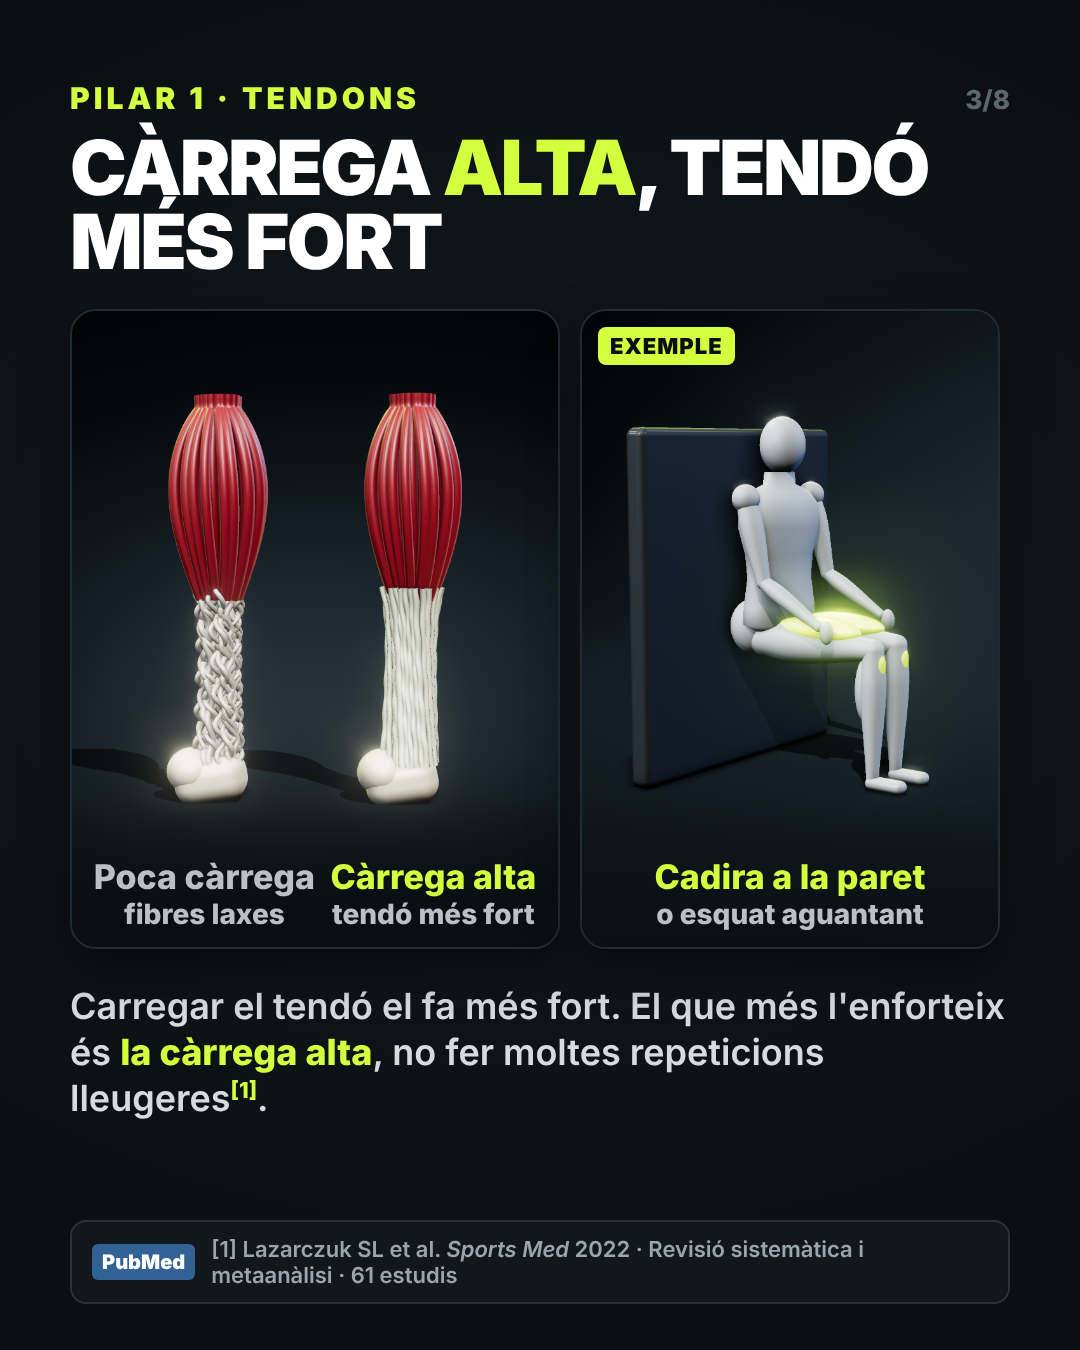
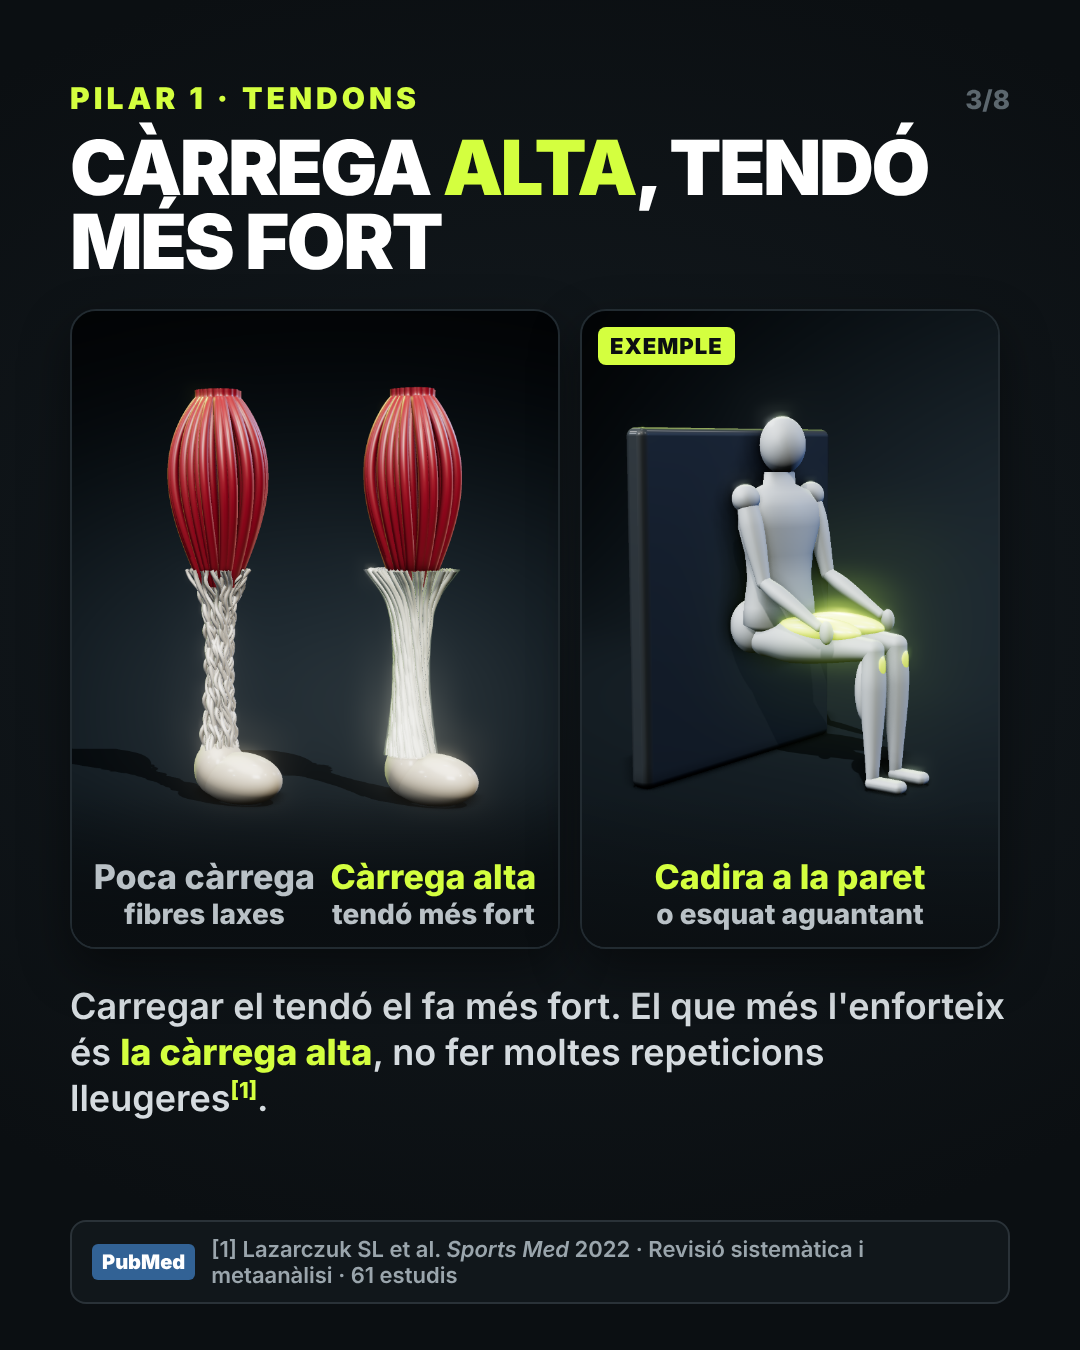
Força: portada White Dragon, CTA corrent, títols sense tapar, tendó nou
Claude-Session: https://claude.ai/code/session_0129rqGdsRmN9Z9aLzGCda8A

Changed region(s): [[0.3056, 0.28, 0.4583, 0.5911], [0.1222, 0.28, 0.275, 0.5911]]

diff --git a/media/publicacions/forca_corredors/3d/scene2.html b/media/publicacions/forca_corredors/3d/scene2.html
@@ -62,7 +62,7 @@ let seed = 7; const rnd = () => (seed = (seed * 16807) % 2147483647) / 214748364
 const MAT = {
   skin: () => new THREE.MeshPhysicalMaterial({ color: 0x9AA3A9, roughness: .55, clearcoat: .15, clearcoatRoughness: .5, sheen: .5, sheenColor: new THREE.Color(0xffffff) }),
   hot: () => new THREE.MeshPhysicalMaterial({ color: LIME, roughness: .35, clearcoat: .9, clearcoatRoughness: .2, emissive: LIME, emissiveIntensity: .38 }),
-  bone: () => new THREE.MeshPhysicalMaterial({ color: 0xCFC4AE, roughness: .7, clearcoat: .2, sheen: .5, sheenColor: new THREE.Color(0xfff3dd) }),
+  bone: () => new THREE.MeshPhysicalMaterial({ color: 0xB5AA95, roughness: .72, clearcoat: .2, sheen: .5, sheenColor: new THREE.Color(0xfff3dd) }),
   red: () => new THREE.MeshPhysicalMaterial({ color: 0x9B1B25, roughness: .42, clearcoat: .7, clearcoatRoughness: .3, sheen: 1, sheenRoughness: .4, sheenColor: new THREE.Color(0xff9a8a) }),
   tendon: (hot) => new THREE.MeshPhysicalMaterial({ color: hot ? 0xE6E2D4 : 0xBDB5A4, roughness: .34, clearcoat: 1, clearcoatRoughness: .18, sheen: .9, sheenColor: new THREE.Color(hot ? 0xeaffb0 : 0xffffff), iridescence: hot ? .25 : 0 }),
 };
@@ -84,17 +84,24 @@ function fibres({ N, L, R, prof, amp = 0, twist = 0, rf = 0.04, seedv = 3, segs 
 // ---------- AQUIL·LES: bessó (vermell) → tendó → calcani
 function achilles(strong, x) {
   const g = new THREE.Group();
-  const Lt = 2.3, Rt = strong ? 0.33 : 0.25;
-  const ten = new THREE.Mesh(fibres({ N: strong ? 95 : 60, L: Lt, R: Rt, prof: t => 0.85 + 0.25 * Math.pow(1 - t, 2) + 0.35 * Math.pow(t, 6), amp: strong ? 0.006 : 0.05, twist: 0.5, rf: strong ? 0.045 : 0.038, seedv: 11 }), MAT.tendon(strong));
+  const Lt = 2.4, Rt = strong ? 0.3 : 0.22;
+  // perfil en rellotge de sorra: s'eixampla al calcani i, sobretot, on s'uneix al múscul
+  const prof = t => 1.05 - 0.38 * Math.sin(Math.PI * Math.min(1, t * 1.05)) + 0.9 * Math.pow(Math.max(0, t - 0.72) / 0.28, 2.2);
+  const ten = new THREE.Mesh(fibres({ N: strong ? 150 : 80, L: Lt, R: Rt, prof, amp: strong ? 0.004 : 0.03, twist: strong ? 1.5 : 0.6, rf: strong ? 0.034 : 0.03, seedv: strong ? 12 : 11, segs: 90 }), MAT.tendon(strong));
   ten.castShadow = true; g.add(ten);
-  // bessó: ventre muscular que s'estreny cap al tendó
-  const mus = new THREE.Mesh(fibres({ N: 110, L: 2.6, R: 0.78, prof: t => Math.max(0.3, Math.pow(Math.sin(Math.PI * (0.15 + t * 0.85)), 0.7)) * (0.55 + 0.45 * t), twist: 0.2, rf: 0.07, seedv: 23, y0: Lt - 0.15 }), MAT.red());
+  if (strong) { // beina brillant (paratenó)
+    const pts = []; for (let k = 0; k <= 60; k++) { const t = k / 60; pts.push(new THREE.Vector2(Rt * prof(t) + 0.045, t * Lt)); }
+    const sh = new THREE.Mesh(new THREE.LatheGeometry(pts, 64), new THREE.MeshPhysicalMaterial({ color: 0xF6F8EE, transparent: true, opacity: .16, roughness: .08, clearcoat: 1, clearcoatRoughness: .05, depthWrite: false, side: THREE.DoubleSide }));
+    g.add(sh);
+  }
+  // bessó
+  const mus = new THREE.Mesh(fibres({ N: 120, L: 2.5, R: 0.8, prof: t => Math.max(0.28, Math.pow(Math.sin(Math.PI * (0.12 + t * 0.86)), 0.75)) * (0.5 + 0.5 * t), twist: 0.25, rf: 0.068, seedv: 23, y0: Lt - 0.2 }), MAT.red());
   mus.castShadow = true; g.add(mus);
-  // calcani
+  // calcani: cos allargat cap endavant + tuberositat posterior
   const bm = MAT.bone();
-  const cal = new THREE.Mesh(new RoundedBoxGeometry(0.95, 0.62, 0.7, 6, 0.26), bm); cal.position.set(-0.12, -0.22, 0); cal.rotation.z = 0.18; cal.castShadow = true; g.add(cal);
-  const tub = new THREE.Mesh(new THREE.SphereGeometry(0.34, 48, 32), bm); tub.position.set(-0.36, -0.12, 0); tub.scale.set(1, .9, 1.1); tub.castShadow = true; g.add(tub);
-  g.position.x = x; g.position.y = 0.5; return g;
+  const body = new THREE.Mesh(new THREE.SphereGeometry(1, 64, 48), bm); body.scale.set(0.62, 0.34, 0.36); body.position.set(0.28, -0.3, 0.18); body.rotation.y = -0.5; body.castShadow = true; g.add(body);
+  const tub = new THREE.Mesh(new THREE.SphereGeometry(1, 64, 48), bm); tub.scale.set(0.34, 0.38, 0.36); tub.position.set(0, -0.2, 0); tub.castShadow = true; g.add(tub);
+  g.position.x = x; g.position.y = 0.62; return g;
 }
 
 // ---------- MÚSCUL fusiforme amb tendons fibrosos

diff --git a/media/publicacions/forca_corredors/gen.py b/media/publicacions/forca_corredors/gen.py
@@ -20,13 +20,16 @@ def photo_slide(img, inner, top_band=470, off=330):
     return f"""<div class="s" style="padding:0;background:#0B0F12">
 <img src="{(F/img).as_uri()}" style="position:absolute;left:0;top:{off}px;width:1080px">
 <div style="position:absolute;left:0;right:0;top:0;height:{top_band+260}px;background:linear-gradient(180deg,#0B0F12 0%,#0B0F12 {int(top_band/(top_band+260)*100)}%,rgba(11,15,18,0) 100%)"></div>
-<div style="position:absolute;top:70px;left:70px;right:70px">{inner}</div></div>"""
+<div style="position:absolute;top:48px;left:70px;right:70px">{inner}</div></div>"""
 
 S = {}
-S[1] = photo_slide("tonus_camilla_bracos_creuats.jpg", """
-<div class="k">Força per a corredors</div>
-<div style="font-weight:900;font-size:104px;line-height:.94;letter-spacing:-4px;text-transform:uppercase;color:#fff;margin-top:16px">Els 3 pilars <span style="color:#D4FF3F">de la força per córrer</span></div>
-<div style="display:inline-block;background:#D4FF3F;color:#0B0F12;font-weight:900;font-size:38px;padding:14px 24px;border-radius:14px;margin-top:26px">Fas força? Potser et falta una peça 👉</div>""", top_band=520, off=380)
+_c = (F / "pro_retrat_bracos_creuats_frontal.jpg").as_uri()
+S[1] = f"""<div class="s" style="padding:0;background:#0B0F12">
+<div style="position:absolute;inset:0;background:radial-gradient(60% 55% at 50% 52%,#E4E4E2 0%,#C9C9C7 55%,#8E9193 100%)"></div>
+<img src="{_c}" style="position:absolute;left:{(1080-748)//2}px;top:230px;height:1120px;-webkit-mask-image:linear-gradient(90deg,transparent 0,#000 12%,#000 88%,transparent 100%)">
+<div style="position:absolute;left:0;right:0;top:0;height:470px;background:linear-gradient(180deg,#0B0F12 0%,#0B0F12 52%,rgba(11,15,18,0) 100%)"></div>
+<div style="position:absolute;top:48px;left:70px;right:70px"><div class="k">Força per a corredors</div>
+<div style="font-weight:900;font-size:92px;line-height:.94;letter-spacing:-3.5px;text-transform:uppercase;color:#fff;margin-top:12px">Els 3 pilars <span style="color:#D4FF3F">de la força per córrer</span></div></div></div>"""
 
 def ill(img, w, h, bottom="", tag=""):
     t = f'<div style="position:absolute;top:16px;left:16px;background:#D4FF3F;color:#0B0F12;font-size:22px;font-weight:900;padding:6px 12px;border-radius:8px;letter-spacing:1px">{tag}</div>' if tag else ""
@@ -88,12 +91,15 @@ S[7] = f"""<div class="s">{pg(7)}<div class="k">Sense vendre fum</div>
 <p style="margin-top:36px;font-size:38px;font-weight:800;color:#fff">Ajuda quan és <span style="color:#D4FF3F">guiat i progressiu.</span></p>
 {card('[5] Ramos-Campo DJ <i>JSCR</i> 2025 · [6] Leppänen M <i>BJSM</i> 2024 · [7] Taddei UT <i>AJSM</i> 2020 · [8] Toresdahl BG <i>Sports Health</i> 2020')}</div>"""
 
-S[8] = photo_slide("tonus_camilla_mans_juntes.jpg", """
-<div style="font-weight:900;font-size:80px;line-height:.98;letter-spacing:-2.5px;text-transform:uppercase;color:#fff">Vols el teu <span style="color:#D4FF3F">pla de força?</span></div>
-<div style="margin-top:26px;border:4px solid #D4FF3F;border-radius:22px;padding:22px 30px;background:rgba(11,15,18,.75)">
+S[8] = f"""<div class="s" style="padding:0;background:#0B0F12">
+<img src="{(F/'trail_utmb_vallaran_2026_horitzontal.jpg').as_uri()}" style="position:absolute;top:0;left:-800px;height:1350px">
+<div style="position:absolute;left:0;right:0;top:0;height:420px;background:linear-gradient(180deg,rgba(11,15,18,.92) 0%,rgba(11,15,18,.75) 55%,rgba(11,15,18,0) 100%)"></div>
+<div style="position:absolute;left:0;right:0;bottom:0;height:470px;background:linear-gradient(0deg,rgba(11,15,18,.95) 0%,rgba(11,15,18,.85) 60%,rgba(11,15,18,0) 100%)"></div>
+<div style="position:absolute;top:48px;left:70px;right:70px;font-weight:900;font-size:84px;line-height:.96;letter-spacing:-2.5px;text-transform:uppercase;color:#fff">Vols el teu <span style="color:#D4FF3F">pla de força?</span></div>
+<div style="position:absolute;bottom:60px;left:70px;right:70px;border:4px solid #D4FF3F;border-radius:22px;padding:22px 30px;background:rgba(11,15,18,.7)">
 <div style="font-size:40px;font-weight:800">WhatsApp <span style="color:#D4FF3F">627 148 092</span></div>
 <div style="font-size:40px;font-weight:800;margin-top:8px">Tonus <span style="color:#D4FF3F">601 983 214</span> <span style="font-size:28px;color:#B9C1C6;font-weight:600">«demana per mi»</span></div>
-<div style="font-size:40px;font-weight:800;margin-top:8px">🌐 <span style="color:#D4FF3F">marcvallfisio.com</span></div></div>""", top_band=560, off=420)
+<div style="font-size:40px;font-weight:800;margin-top:8px">🌐 <span style="color:#D4FF3F">marcvallfisio.com</span></div></div></div>"""
 
 async def main():
     async with async_playwright() as p:
